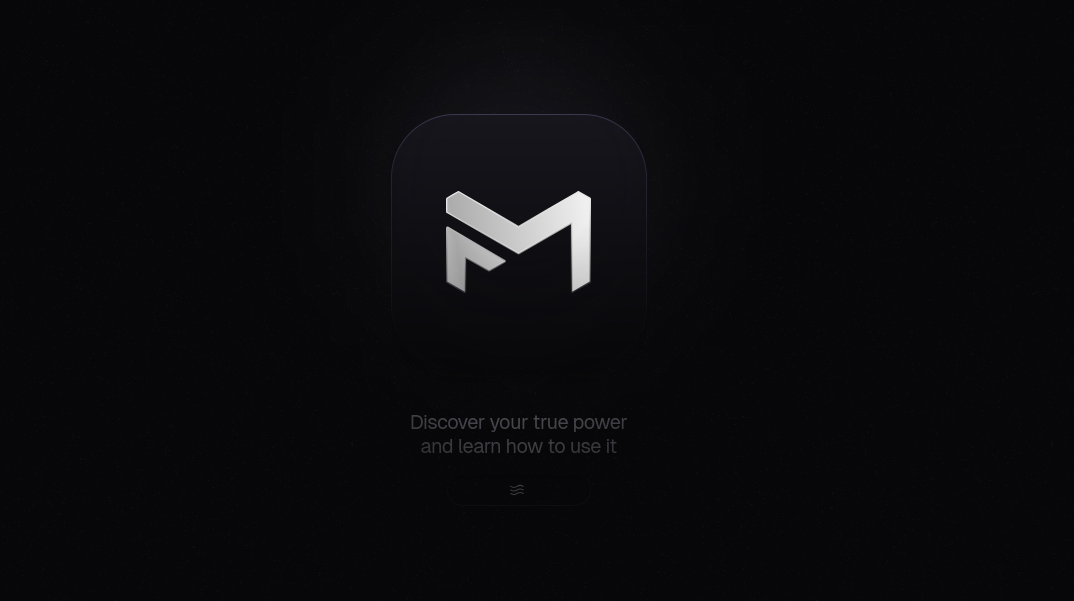
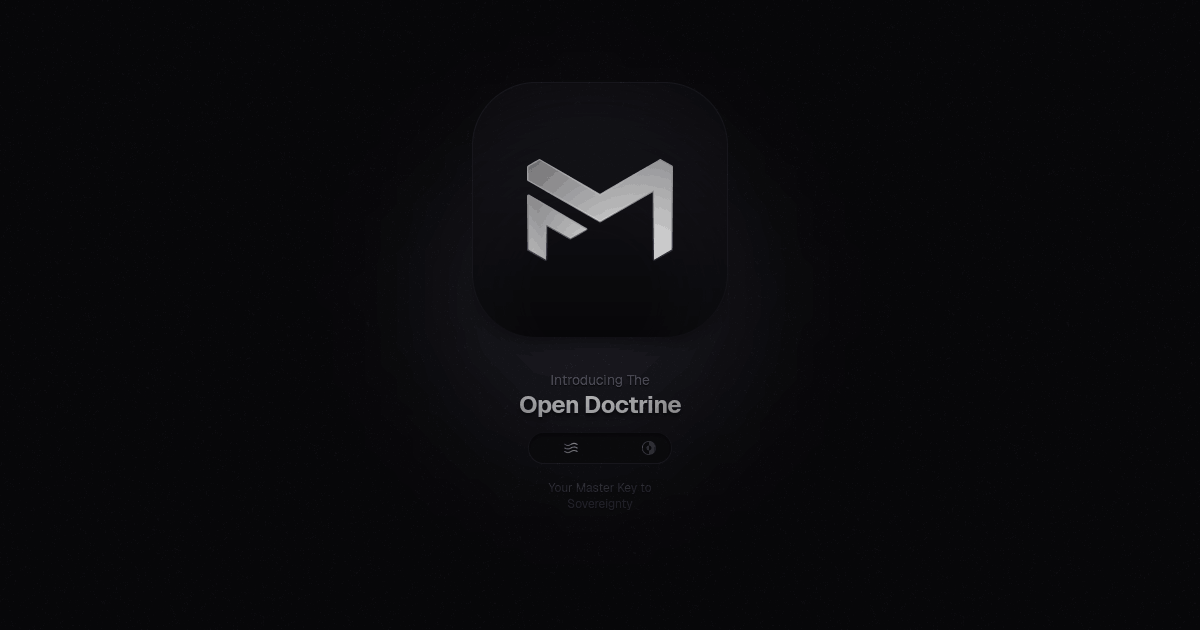
Update visuals ++

Changed region(s): [[0.3994, 0.2396, 0.5838, 0.4792], [0.3687, 0.6889, 0.5838, 0.7787], [0.4302, 0.599, 0.5838, 0.6589]]

diff --git a/app/pages/index.vue b/app/pages/index.vue
@@ -25,32 +25,84 @@ const logoGradient = computed(() => {
 
   return `radial-gradient(circle at ${xPos}px ${yPos}px, black 20%, transparent 100%)`
 })
+
+const principles = [
+  { id: 1,
+    title: 'Mentalism',
+    slug: 'mentalism'
+    // subTitle: 'All is mind.',
+    // desc: 'All is mind; the universe is mental. Thoughts lead to the manifestation of all things and events in creation. Thoughts create our state of existence and the quality of our experience here on Earth. Therefore, be responsible for everything you create, by being responsible for everything you think.'
+  },
+  { id: 2,
+    title: 'Correspondence',
+    slug: 'correspondence'
+    // subTitle: 'As above, so below.',
+    // desc: 'That which is above is like to that which is below, that which is below is like to that which is above. The macrocosm (the totality) and the microcosm (the individual units of consciousness which comprise the whole) are reflections of one another. The universe is self-similar across all scales.'
+  },
+  { id: 3,
+    title: 'Vibration',
+    slug: 'vibration'
+    // subTitle: 'Nothing is stationary.',
+    // desc: 'Nothing rests, everything moves. At the most fundamental level, the universe and everything that comprises it, is pure vibratory energy manifesting itself in different ways. The universe has no solidity as such; the universe is holographic. Matter is merely energy in a state of vibration.'
+  },
+  { id: 4,
+    title: 'Polarity',
+    slug: 'polarity'
+    // subTitle: 'Everything has its polar opposite.',
+    // desc: 'Everything is dual, everything has poles. Everything has its opposite. Opposites are identical in nature, but different in degree (e.g. hot and cold are seemingly opposites, while all that cold truly is, is the absence of heat energy). At some level of reality, all things that seems contradictory may be reconciled.'
+  },
+  { id: 5,
+    title: 'Rhythm',
+    slug: 'rhythm'
+    // subTitle: 'All is ebb and flow.',
+    // desc: 'Everything flows; out and in, in and out. Everything has its tides. All things rise and fall. The pendulum swing manifests in everything. The measure of the swing to the right, is the measure of the swing to the left. Rhythm compensates.'
+  },
+  { id: 6,
+    title: 'Causality',
+    slug: 'causality'
+    // subTitle: 'Cause and effect.',
+    // desc: 'Every cause has its effect, and every effect has its cause. Everything happens according to law. Chance is but a name for law not recognized. There are many planes of causation, but nothing escapes law. There is no free will to ignore law without consequence; that is the limit of free will. This is why natural law is also sometimes referred to as consequentialism.'
+  },
+  { id: 7,
+    title: 'Gender',
+    slug: 'gender'
+    // subTitle: 'Everything has its male and female properties.',
+    // desc: 'Gender is in everything, everything has its masculine and feminine properties; gender manifests on all planes. While every person has a biological sex, psychologically both qualities exist simultaneously within everyone, and everything.'
+  },
+  { id: 8,
+    title: 'Care',
+    slug: 'care'
+    // subTitle: 'The lost principle',
+    // desc: 'Care (not compassion) is whatever you give attention to, and help to grow. The lost principle is the dynamic of care; that which you actually care enough about to do, to spend your time on, to pay attention to, and to manifest into reality. What we care about on a day-to-day basis acts as the driving force of our thoughts and actions.'
+  }
+]
 </script>
 
 <template>
-  <div
-    class="w-screen min-h-svh flex items-center justify-center relative overflow-hidden bg-[url('@/assets/svg/bg-noise.svg')]"
-  >
-    <div
-      class="absolute bg-primary-300/10 rounded-full -translate-x-1/2 -translate-y-1/2 pointer-events-none blur-3xl"
-      :style="{
-        opacity,
-        left: `${x}px`,
-        top: `${y}px`,
-        width: `${size}px`,
-        height: `${size}px`
-      }"
-    />
-
-    <div
-      ref="logo"
-      :style="{
-        maskImage: logoGradient
-      }"
+  <div>
+    <section
+      class="w-screen min-h-svh flex items-center justify-center relative overflow-hidden bg-[url('@/assets/svg/bg-noise.svg')]"
     >
-      <div class="flex flex-col justify-center items-center">
-        <div
-          class="
+      <div
+        class="absolute bg-primary-300/10 rounded-full -translate-x-1/2 -translate-y-1/2 pointer-events-none blur-3xl"
+        :style="{
+          opacity,
+          left: `${x}px`,
+          top: `${y}px`,
+          width: `${size}px`,
+          height: `${size}px`
+        }"
+      />
+
+      <div
+        ref="logo"
+        :style="{
+          maskImage: logoGradient
+        }"
+      >
+        <div class="flex flex-col justify-center items-center">
+          <div
+            class="
             flex
             justify-center
             items-center
@@ -60,9 +112,9 @@ const logoGradient = computed(() => {
             bg-linear-to-b from-neutral-600 to-transparent
             p-px
           "
-        >
-          <span
-            class="
+          >
+            <span
+              class="
               flex
               justify-center
               items-center
@@ -73,44 +125,113 @@ const logoGradient = computed(() => {
               rounded-[calc(2rem-1px)] md:rounded-[calc(4rem-1px)]
               bg-linear-to-b from-neutral-800 to-neutral-950
             "
+            >
+              <UIcon
+                name="i-local-tfm"
+                class="size-4/7"
+              />
+            </span>
+          </div>
+
+          <!-- TITLE -->
+          <NuxtLink
+            to="https://doctrine.thefreemavens.org/"
+            target="_blank"
+            class="group flex flex-col items-center"
           >
             <UIcon
-              name="i-local-tfm"
-              class="size-4/7"
+              name="i-local-lex"
+              class="size-11 mx-auto flex text-neutral-300 mt-8"
             />
-          </span>
-        </div>
-
-        <!-- TITLE -->
-        <span class="text-xs mt-8 text-neutral-600">
-          Introducing
-        </span>
-        <h1
-          class="
-            mt-1
+            <span
+              class="text-xs md:text-sm mt-2 text-neutral-500 text-shadow-sm/40
+            text-shadow-black"
+            >
+              Introducing The
+            </span>
+            <h1
+              class="
+            mt-0.5
             font-sans
+            font-bold
             text-center
-            text-shadow-lg/20
+            text-shadow-lg/40
             text-shadow-black
-            text-md md:text-lg
+            text-lg md:text-2xl
             max-w-52 md:max-w-60
-            text-neutral-300
+            text-neutral-200
             tracking-tight
             leading-6
           "
-          :style="{ opacity }"
-        >
-          The <span class="font-bold">Open Doctrine</span>
-        </h1>
+              :style="{ opacity }"
+            >
+              Open <span class="text-neutral-200">Doctrine</span>
+            </h1>
 
-        <!-- CTA -->
-        <AppPrinciples />
+            <!-- CTA -->
+            <div
+              class="
+        mt-4
+        flex
+        justify-center
+        items-center
+        w-36
+        mx-auto
+        h-8
+        rounded-full
+        bg-linear-to-t from-neutral-700 to-transparent
+        p-px
+      "
+            >
+              <div
+                class="w-full flex h-[30px] justify-center items-center rounded-[20px] bg-neutral-950 inset-shadow-sm inset-shadow-black"
+              >
+                <UMarquee
+                  overlay
+                  class="overflow-hidden mx-1"
+                  :ui="{
+                    root: '[--duration:28s]'
+                  }"
+                >
+                  <UIcon
+                    v-for="principle in principles"
+                    :key="principle.id"
+                    :name="'i-local-picon-' + principle.slug"
+                    class="size-3.5 hover:text-primary"
+                  />
+                </UMarquee>
+              </div>
+            </div>
+            <div
+              class="font-sans text-xs pt-4 px-4 pb-2 transition-all duration-1500 text-center max-w-48 text-neutral-500 text-shadow-sm/30
+            text-shadow-black"
+            >
+              Your Master Key to Sovereignty
+            </div>
+            <div class="flex justify-center items-center mt-3 pb-4 relative">
+              <!-- UPDATED: Use txIndicatorColor computed property -->
+              <UChip
+                size="3xl"
+                color="primary"
+                class="absolute ms-1 blur-sm animate-pulse"
+                standalone
+                inset
+              />
+              <UChip
+                size="md"
+                color="primary"
+                class="absolute ms-1 animate-pulse"
+                standalone
+                inset
+              />
+            </div>
+          </NuxtLink>
+        </div>
       </div>
-    </div>
-
+    </section>
     <!-- Footer -->
-    <div
-      class="absolute bottom-0 text-center text-xs leading-4 mb-3 text-neutral-500"
+    <footer
+      class="absolute bottom-0 flex w-full justify-center items-center gap-1 text-xs leading-4 mb-3 text-neutral-500"
       :style="{ opacity }"
     >
       The <span class="font-semibold text-xs mx-0.25">Freemavens</span> Collective <UBadge
@@ -141,6 +262,6 @@ const logoGradient = computed(() => {
       >
         X
       </NuxtLink>
-    </div>
+    </footer>
   </div>
 </template>

diff --git a/app/assets/css/main.css b/app/assets/css/main.css
@@ -20,6 +20,7 @@
 
 @theme static {
   --font-sans: 'Geist', sans-serif;
+  --font-mono: 'JetBrains Mono', monospace;
 
   --container-8xl: 96rem;
 
